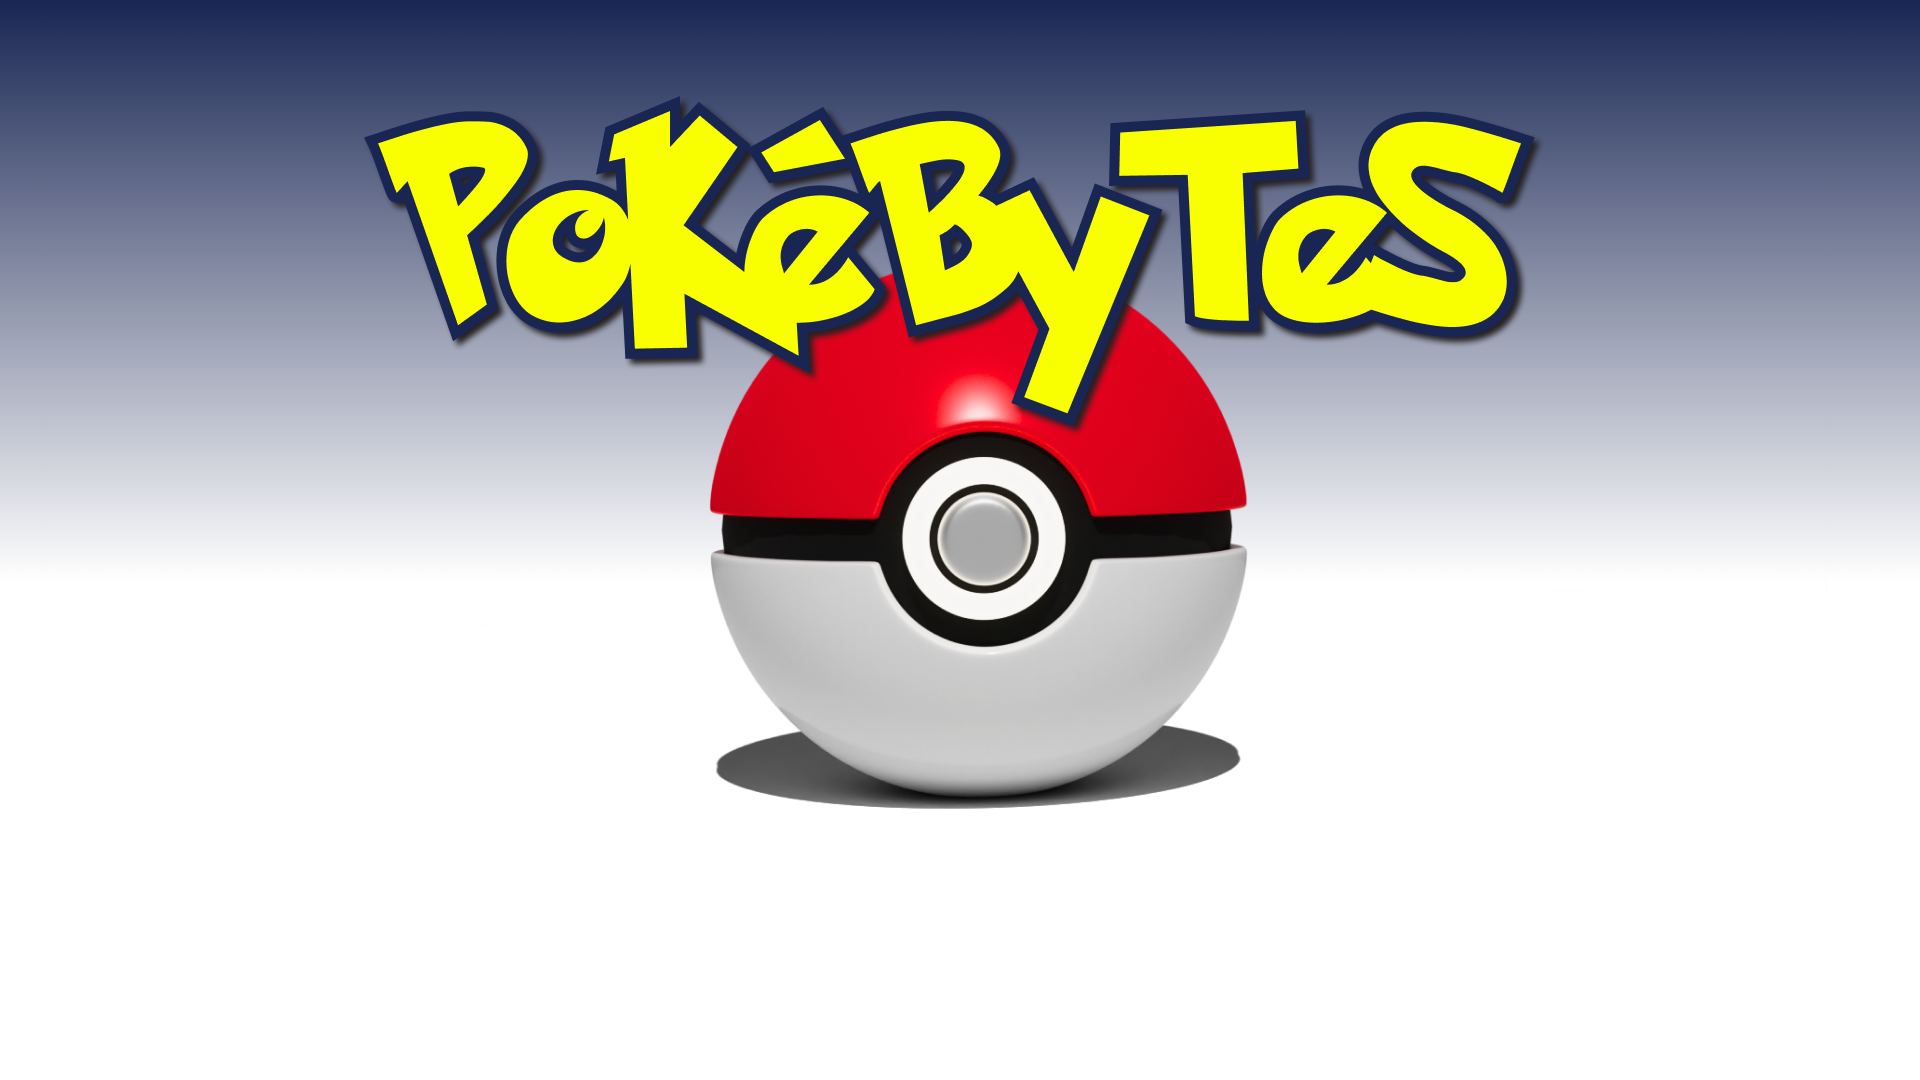
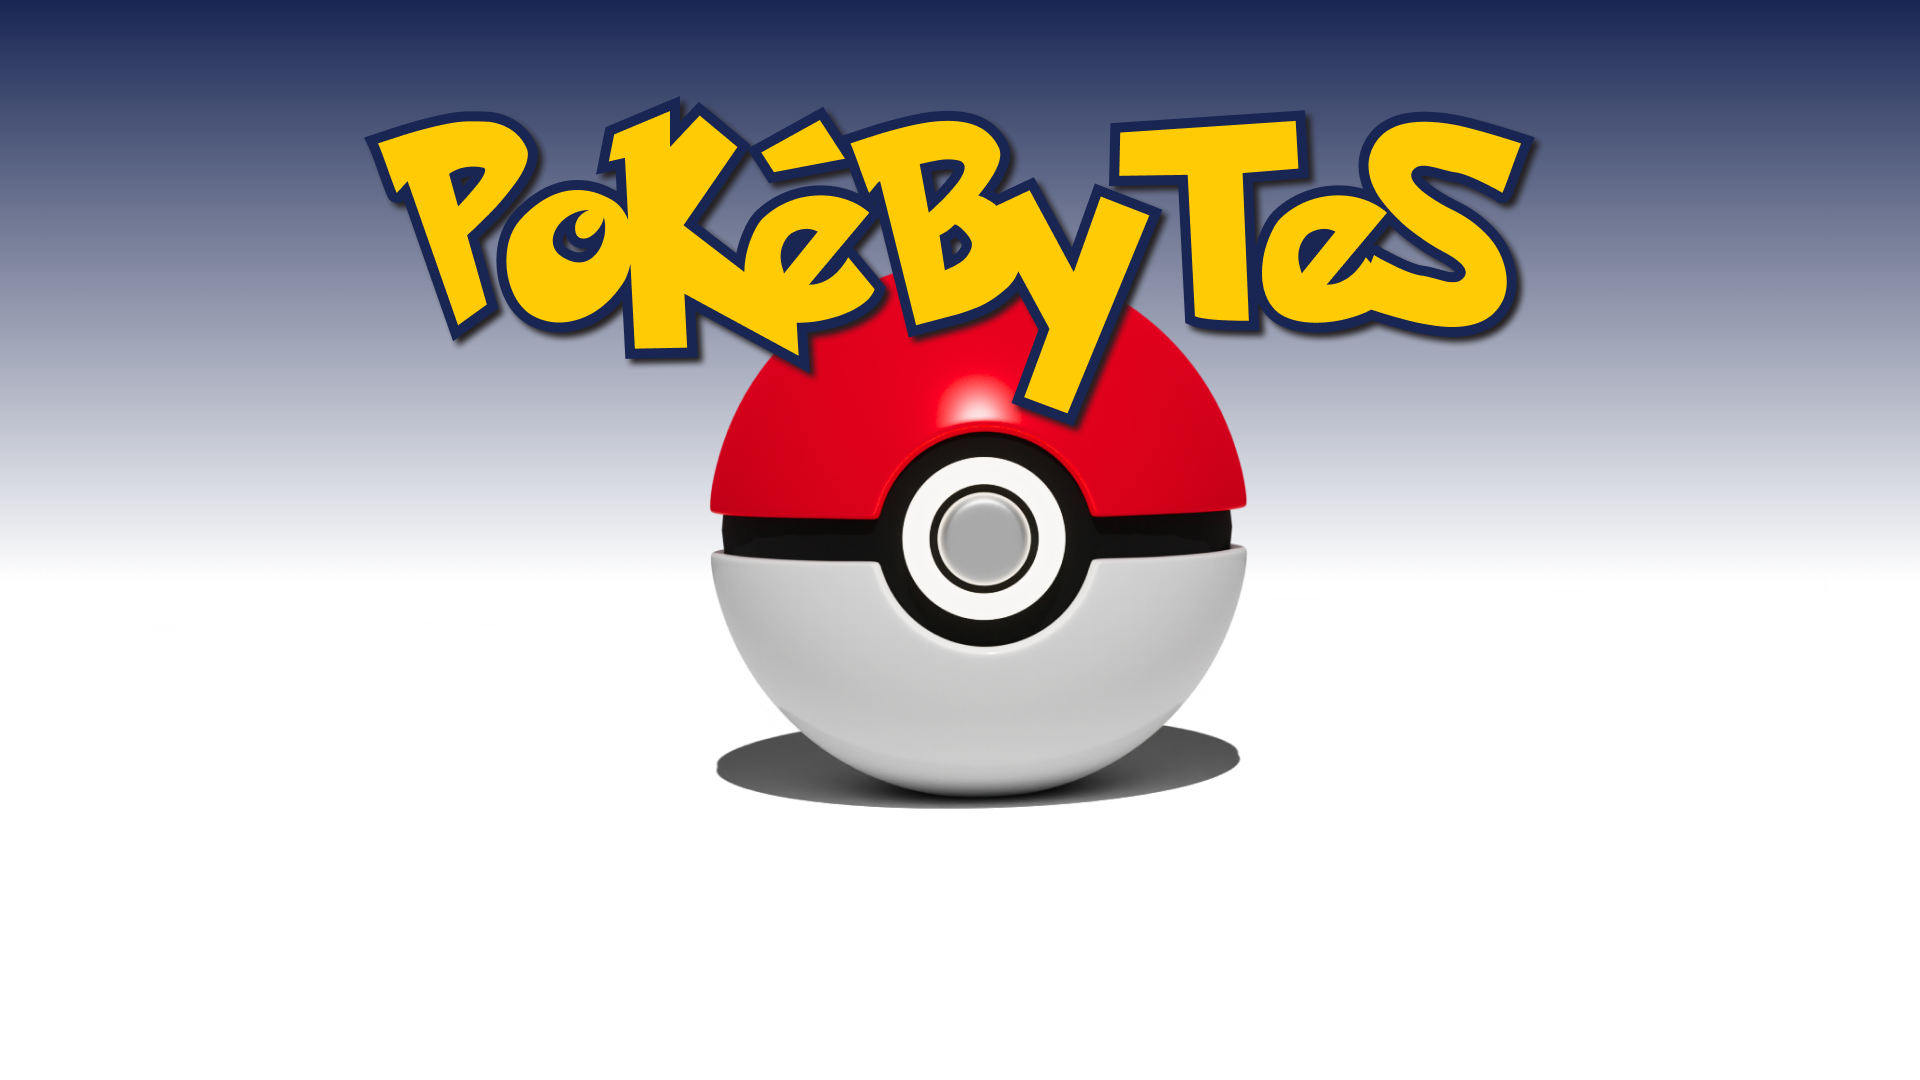
está quase meus amigos <3

Changed region(s): [[0.1875, 0.0917, 0.8125, 0.3972]]

diff --git a/front-end/src/components/login/ModalLogin.css b/front-end/src/components/login/ModalLogin.css
@@ -36,7 +36,7 @@
   
   .inputUsername,
   .inputPassword {
-    font-weight: 700;
+  
     height: 36px;
     margin: 10px;
     padding: 8px;
@@ -44,28 +44,24 @@
     border: 1px solid #ccc;
     width: 95%;
     color: #192653;
-    background-color: #FAFF00;
-    border: 3px solid #58585a8c;
-    border-left: 0;
+    background-color: #FFCB05;
     border-right: 0;
     border-top: 0;
-    font-size: 16px;
+    font-size: 18px;
 
   }
 
   .inputUsername::placeholder,
   .inputPassword::placeholder {
     font-weight: 400;
+    color: #192653;
   }
   
 
 
   .inputUsername:hover,
 .inputPassword:hover {
-    border: 0 0 3px solid #58585a8c;
-    border-left: 0;
-    border-right: 0;
-    border-top: 0;
+  box-shadow: 0 0 10px rgba(0, 0, 0, 1);
 }
 
 .inputIconName {
@@ -98,6 +94,10 @@
     margin-top: 10px;
   }
 
+  .enter:hover {
+    box-shadow: 0 0 10px rgba(0, 0, 0, 1);
+  }
+
   .voltar-wrapper {
     padding: 20px;
     position: relative;
@@ -122,9 +122,31 @@
       width: 20px;
       height: 20px;
       border-radius: 50%;
+      color: #192653;
+
+      
 }
 
-  
+.voltar2:hover{
+  box-shadow: 0 0 10px rgba(0, 0, 0, 1);
+}
+
+.voltar{
+  position: absolute;
+  top: 26%;
+  left: 65%;
+  transform: translate(-50%, -50%);
+  width: 20px;
+  height: 20px;
+  border-radius: 50%;
+  color: #192653;
+}
+
+.voltar:hover{
+  box-shadow: 0 0 10px rgba(0, 0, 0, 1);
+}
+
+
   @keyframes rotate {
     0% {
       transform: translate(-50%, -50%) rotate(0deg);

diff --git a/front-end/src/components/login/ModalLogin.js b/front-end/src/components/login/ModalLogin.js
@@ -41,7 +41,7 @@ function ModalLogin(props) {
           }}
           whileHover={{
             color: "#192653",
-            backgroundColor: "#FAFF00",
+            backgroundColor: "#FFCB05",
             rotateY: "180",
           }}
           className="buttonLogin"
@@ -59,13 +59,13 @@ function ModalLogin(props) {
                 <input
                   className="inputUsername inputIconName"
                   type="email"
-                  placeholder="USERNAME"
+                  placeholder="Username"
                   onChange={setUsername} value={username}
                 ></input>
                 <input
                   className="inputPassword inputIconPass"
                   type="password"
-                  placeholder="PASSWORD"
+                  placeholder="Password"
                   onChange={setPassword} value={password}
                 ></input>
 

diff --git a/front-end/src/components/home_page/Icones/tooltip.css b/front-end/src/components/home_page/Icones/tooltip.css
@@ -1,14 +1,15 @@
 .tooltip {
     position: relative;
     display: inline-block;
-  
+    border: 5px transparent solid;
+    transition: border 200ms linear;
+    border-radius: 100%;
   }
-
-
+  
+  
   .tooltip .tooltiptext {
-    visibility: hidden;
     width: 130px;
-    background-color: #FAFF00;
+    background-color: #FFCB05;
     color: #192653;
     border-bottom: 5px solid #6667AB;
     text-align: center;
@@ -23,16 +24,16 @@
     transition: opacity 0.8s;
     font-family: PokemonRBYG, Arial, Helvetica, sans-serif;
     font-weight: 900;
-  }
 
+    transition: opacity 450ms;
+  }
+  
   .tooltip:hover{
-    border: 5px #6667AB solid;
-    border-radius: 100%;
+    border-color: #6667AB;
 
   }
 
    .tooltip:hover .tooltiptext {
-    visibility: visible;
     opacity: 1;
   }
 

diff --git a/front-end/src/components/home_page/PokeCards/PokeCards.js b/front-end/src/components/home_page/PokeCards/PokeCards.js
@@ -1,5 +1,7 @@
 import React, { useState } from "react";
 import "./PokeCards.css";
+import { Link } from "react-router-dom";
+
 
 function PokeCards(props) {
 
@@ -93,8 +95,16 @@ function App() {
           <button onClick={handleNovosBotoes}>Novo Botão 2</button>
         </div>
       )}
+
+ 
     </div>
+
+
+
   );
+
+
+
 }
 
 export default PokeCards;

diff --git a/front-end/src/components/home_page/tradeMachine/TradeMachine.js b/front-end/src/components/home_page/tradeMachine/TradeMachine.js
@@ -1,7 +1,7 @@
 import React, { useState, useEffect } from "react";
 import { Link } from "react-router-dom";
 import "./TradeMachine.css";
-import returnIcon from "../../../icons/return_icon1.png";
+import returnIcon from "../../../icons/return_icon2.png";
 import LoginService from "../../service/LoginService";
 import PokeBag from "../PokeBag/PokeBag";
 

diff --git a/front-end/src/components/login/ModalSignUp.js b/front-end/src/components/login/ModalSignUp.js
@@ -50,7 +50,7 @@ function ModalSignUp() {
           }}
           whileHover={{
             color: "#192653",
-            backgroundColor: "#FAFF00",
+            backgroundColor: "#FFCB05",
             rotateY: "180",
           }} className="buttonLogin" onClick={abrirModal}>
           SIGN UP

diff --git a/front-end/src/components/home_page/Icones/Dropdown.js b/front-end/src/components/home_page/Icones/Dropdown.js
@@ -17,7 +17,7 @@ const Dropdown = () => {
   };
 
   return (
-    <div className="dropdown">
+    <div className="dropdown" onMouseLeave={() => setOpen(false)}>
       <ButtonIcon onClick={openDropdown} image={profile} />
 
       {open && (

diff --git a/front-end/src/components/home_page/Icones/dropdown.css b/front-end/src/components/home_page/Icones/dropdown.css
@@ -18,7 +18,7 @@
     top: 75px; 
 
     right: 0;
-    background-color: #FAFF00;
+    background-color: #FFCB05;
     padding: 10px;
     border-radius: 5px;
     box-shadow: 0px 8px 16px 0px rgba(0, 0, 0, 0.2);

diff --git a/front-end/src/components/home_page/Icones/buttonIcon.css b/front-end/src/components/home_page/Icones/buttonIcon.css
@@ -5,7 +5,7 @@
     border-radius: 100%;
     width: 90px;
     height: 90px;
-    background-color: #FAFF00;
+    background-color: #FFCB05;
 
 }
 
